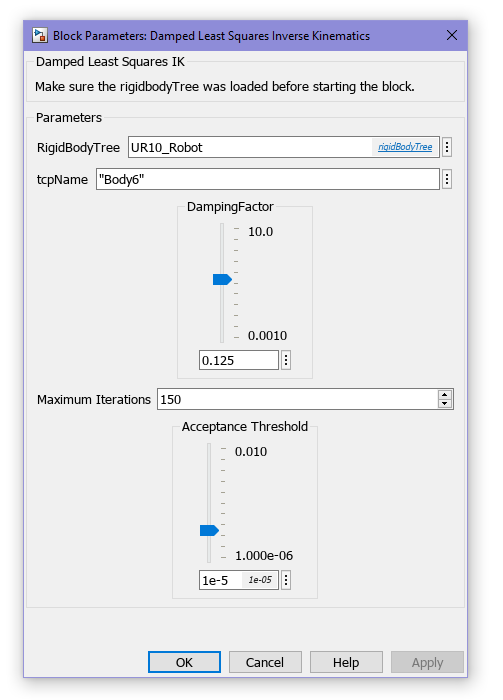
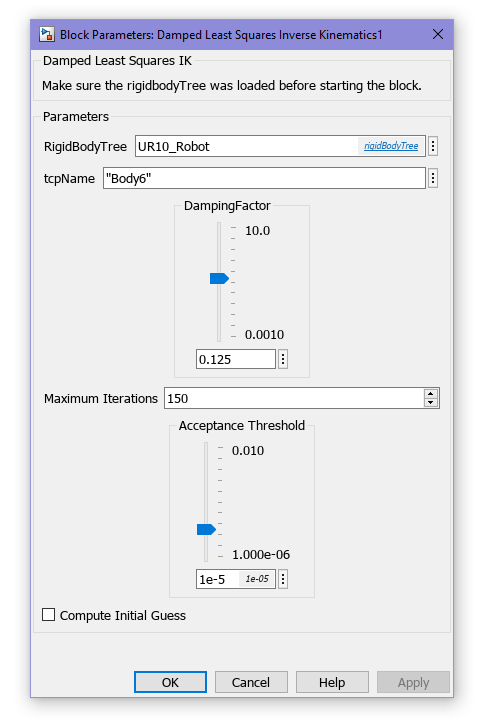
update README add information about initial guess checkmark

Changed region(s): [[0.0311, 0.03, 0.9627, 0.99], [0.6211, 0.51, 0.6522, 0.54]]

diff --git a/README.md b/README.md
@@ -41,12 +41,13 @@ In order for the block to work, more information is required.
 - The scalar value of the damping factor that is used to formulate the constraint.
 - A maximum number of allowed iterations before aborting the optimization process.
 - The acceptance threshold for a solution.
+- Whether or not the block should compute its own initial guess.
 
 Below is an example of the configuration that can be made for the block.
 
 ![Configuration Mask of the IK Block](ik-block_mask.png)
 
-Experiments with the UR10 6DOF arm have shown fast convergence and sufficient results with a damping factor of `0.125`.
+Experiments with the UR10 6DOF arm have shown fast convergence and sufficient results with a damping factor of `0.125`. The robot was able to reach its goal without an initial guess.
 
 ### Matlab Examples - Understanding the Code
 
